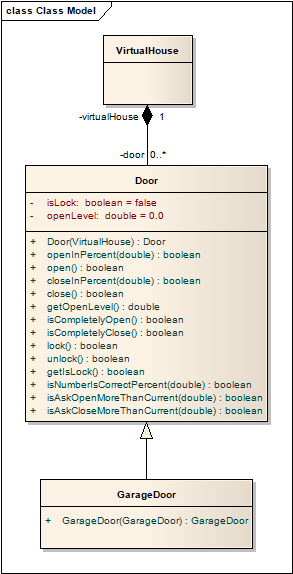
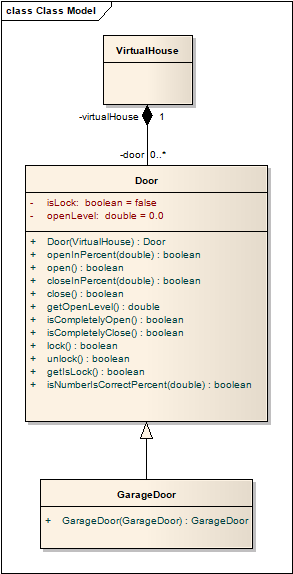
Add first final v1

Changed region(s): [[0.1536, 0.6812, 0.7372, 0.7404], [0.7679, 0.6812, 0.8908, 0.7404]]

diff --git a/src/virtualhouse_v1/App.java b/src/virtualhouse_v1/App.java
@@ -9,12 +9,73 @@ public class App {
         GarageDoor      a_garage_door;
 
         a_virtual_house = new Virtualhouse();
-
         a_garage_door = new GarageDoor(a_virtual_house);
 
-        a_garage_door.close();
-        a_garage_door.lock();
 
-        System.out.println(a_garage_door.getIsLock());;
+        System.out.println("");
+        System.out.println("La porte de garage est au niveau de "+ a_garage_door.getOpenLevel());
+
+
+        System.out.println("");
+        a_garage_door.lock();
+        if (a_garage_door.getIsLock()) {
+            System.out.println("La porte de garage est verouillé");
+        } else {
+            System.out.println("La porte de garage est déverouillé");
+        }
+
+
+        System.out.println("");
+        a_garage_door.openInPercent(50.0);
+        System.out.println("La porte de garage est au niveau de "+ a_garage_door.getOpenLevel());
+        if (a_garage_door.isCompletelyOpen()) {
+            System.out.println("La porte de garage est complétement ouverte");
+        } else {
+            System.out.println("La porte de garage n'est pas complétement ouverte");
+        }
+
+
+        System.out.println("");
+        a_garage_door.open();
+        System.out.println("La porte de garage est au niveau de "+ a_garage_door.getOpenLevel());
+        if (a_garage_door.isCompletelyOpen()) {
+            System.out.println("La porte de garage est complétement ouverte");
+        } else {
+            System.out.println("La porte de garage n'est pas complétement ouverte");
+        }
+
+
+        System.out.println("");
+        a_garage_door.lock();
+        if (a_garage_door.getIsLock()) {
+            System.out.println("La porte de garage est verouillé");
+        } else {
+            System.out.println("La porte de garage est déverouillé");
+        }
+
+
+        System.out.println("");
+        a_garage_door.closeInPercent(80.0);
+        System.out.println("La porte de garage est au niveau de "+ a_garage_door.getOpenLevel());
+        if (a_garage_door.isCompletelyClose()) {
+            System.out.println("La porte de garage est complétement fermé");
+        } else {
+            System.out.println("La porte de garage n'est pas complétement fermé");
+        }
+
+
+        System.out.println("");
+        a_garage_door.close();
+        System.out.println("La porte de garage est au niveau de "+ a_garage_door.getOpenLevel());
+        if (a_garage_door.isCompletelyClose()) {
+            System.out.println("La porte de garage est complétement fermé");
+        } else {
+            System.out.println("La porte de garage n'est pas complétement fermé");
+        }
+        if (a_garage_door.getIsLock()) {
+            System.out.println("La porte de garage est verouillé");
+        } else {
+            System.out.println("La porte de garage est déverouillé");
+        }
     }
 }

diff --git a/src/virtualhouse_v1/lib/Door.java b/src/virtualhouse_v1/lib/Door.java
@@ -18,7 +18,7 @@ public class Door {
         // Check if user percent is between 0% and 100%
         // Check user percent is not bellow than current open percent
         // Check if the door is unlock
-        if (isNumberIsCorrectPercent(_openLevel) && isAskOpenMoreThanCurrent(_openLevel) && !this.getIsLock()) {
+        if (isCorrectPercent(_openLevel) && _openLevel > this.getOpenLevel() && !this.getIsLock()) {
             this.openLevel = _openLevel;
             return true;
         } else {
@@ -36,7 +36,7 @@ public class Door {
         // Check if user percent is between 0% and 100%
         // Check user percent is not superior than current open percent
         // Check if the door is unlock
-        if (isNumberIsCorrectPercent(_openLevel) && (isAskCloseMoreThanCurrent(_openLevel))) { // Check user percent is not superior than current open percent
+        if (isCorrectPercent(_openLevel) && _openLevel < this.getOpenLevel()) {
             this.openLevel = _openLevel;
             return true;
         } else {
@@ -101,18 +101,14 @@ public class Door {
         return this.isLock;
     }
 
-    private Boolean isNumberIsCorrectPercent(Double _numberToCheck)
+    /**
+     * Check is percent is between 0% and 100%
+     * 
+     * @param _numberToCheck
+     * @return
+     */
+    private Boolean isCorrectPercent(Double _numberToCheck)
     {
         return (_numberToCheck <= 100.0 && _numberToCheck >= 0.0);
-    }
-
-    private Boolean isAskOpenMoreThanCurrent(Double _percentOpenToCheck)
-    {
-        return _percentOpenToCheck > this.getOpenLevel();
-    }
-
-    private Boolean isAskCloseMoreThanCurrent(Double _percentCloseToCheck)
-    {
-        return _percentCloseToCheck < this.getOpenLevel();
     }
 }
